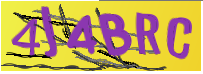
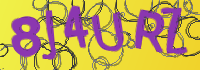
feat: update captcha example images

diff --git a/index.html b/index.html
@@ -147,7 +147,7 @@
   let HistoryIndexCaptcha = 0;
   function switchStyleImage() {
 
-    const index = Math.floor(Math.random() * 5);
+    const index = Math.floor(Math.random() * 7);
     if (index === HistoryIndexCaptcha) {
       switchStyleImage();
       return;
